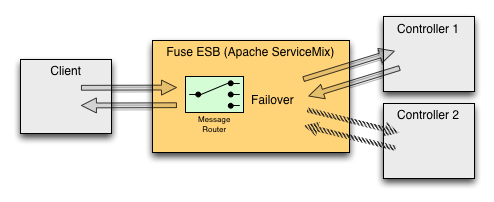
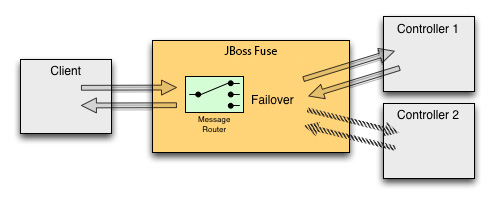
Update readme, pom files and images to JBoss Fuse 6.0.0

Changed region(s): [[0.334, 0.2079, 0.6984, 0.297]]

diff --git a/README.md b/README.md
@@ -19,7 +19,7 @@ kill to demonstrate failover. In practice, additional Fuse ESB containers would 
 
 ### Software Requirements:
 
-* Fuse ESB -- http://fusesource.com/downloads
+* JBoss Fuse 6.0.0
 * Fuse IDE (optional) -- http://fusesource.com/downloads
 * Maven 2.2 or 3.0 -- http://maven.apache.org
 * JDK 1.6
@@ -27,15 +27,15 @@ kill to demonstrate failover. In practice, additional Fuse ESB containers would 
 Installing Fuse
 ---------------
 
-### Download and Install Fuse ESB
+### Download and Install JBoss Fuse
 
-* Download Fuse ESB at http://fusesource.com/products/fuse-esb-enterprise/
+* Download JBoss Fuse at http://www.redhat.com/jbossfuse/download
 * I recommend downloading the .zip or .tar.gz archives rather than the full platform installers.
 * Unzip the archive in a directory without spaces in its path.
 
 ### Download and Install Fuse IDE (optional, not required for this demo)
 
-* Download Fuse IDE at http://fusesource.com/products/fuse-ide/
+* Download Fuse IDE at http://repo.fusesource.com/ide/
 * Unzip the archive in a directory without spaces in its path.
 
 Project Layout
@@ -43,7 +43,7 @@ Project Layout
 
 There are three modules: applications, controllers and router. Here is the layout in the file system:
 
-* FuseESB-RouterDemo
+*JBoss Fuse - RouterDemo
     * client
     * controller
     * router
@@ -54,7 +54,7 @@ the command line here as it is the simplest to describe, and then show Fuse IDE 
 Start Fuse ESB
 --------------
 
-Run the command `bin/fuseesb` in the root directory of Fuse ESB. Here is what the console looks like:
+Run the command `bin/fuse` in the root directory of JBoss Fuse. Here is what the console looks like:
 
 ![Console Image](https://raw.github.com/FuseByExample/camel-example-tcpip-proxy/master/images/console.png "Console Image")
 
@@ -67,17 +67,17 @@ Make sure all projects build successfully.
 Deploy the Router into Fuse ESB
 -------------------------------
 
-In the Fuse ESB terminal session run the command:
+In the JBoss Fuse terminal session run the command:
 
-    FuseESB:karaf@root> features:install camel-mina
-    FuseESB:karaf@root> features:install camel-groovy
-    FuseESB:karaf@root> osgi:install -s mvn:com.fusesource.demo/proxy-router/1.0.0-SNAPSHOT
+    JBossFuse:karaf@root> features:install camel-mina
+    JBossFuse:karaf@root> features:install camel-groovy
+    JBossFuse:karaf@root> osgi:install -s mvn:com.fusesource.demo/proxy-router/1.0.0-SNAPSHOT
 
 You should see output like this, with a Bundle ID generated by the deployment:
 
-    FuseESB:karaf@root> osgi:install -s mvn:com.fusesource.demo/proxy-router/1.0.0-SNAPSHOT
+    JBossFuse:karaf@root> osgi:install -s mvn:com.fusesource.demo/proxy-router/1.0.0-SNAPSHOT
     Bundle ID: 225
-    FuseESB:karaf@root>
+    JBossFuse:karaf@root>
 
 Launch the Controllers
 ----------------------
@@ -102,7 +102,7 @@ to launch the test Client application:
 You should see the Client sending and receiving messages like below. Notice the response has a <controller> element,
 that initially contains 'Controller 1'
 
-    17:44:47 INFO  Apache Camel 2.9.0.fuse-7-061 (CamelContext: camel-1) started in 0.573 seconds
+    17:44:47 INFO  Apache Camel 2.10.0.redhat-60015 (CamelContext: camel-1) started in 0.573 seconds
     17:44:47 INFO  Sending message 1 with data: <data><messageNumber>1</messageNumber><timestamp>17:44:47.348</timestamp></data>
     17:44:47 INFO  Received 1 message: <data><messageNumber>1</messageNumber><timestamp>17:44:47.348</timestamp><controller>Controller 1</controller></data>
     17:44:48 INFO  Sending message 2 with data: <data><messageNumber>2</messageNumber><timestamp>17:44:48.335</timestamp></data>
@@ -144,11 +144,11 @@ configuration of the failover-load balancer)
 
 To inspect the projects using Fuse IDE, launch Fuse IDE and import the three projects as “Existing Maven Projects”:
 
-![Import Maven Projects Image](https://raw.github.com/FuseByExample/camel-example-tcpip-proxy/master/images/import-maven-projects.jpg "Import Maven Projects Image")
+![Import Maven Projects Image](https://raw.github.com/FuseByExample/camel-example-tcpip-proxy/master/images/import-maven-projects.png "Import Maven Projects Image")
 
 Navigate to the router project’s camel-context.xml file to see a visual editor for the integration:
 
-![Camel Context Image](https://raw.github.com/FuseByExample/camel-example-tcpip-proxy/master/images/camel-context.jpg "Camel Context Image")
+![Camel Context Image](https://raw.github.com/FuseByExample/camel-example-tcpip-proxy/master/images/camel-context.png "Camel Context Image")
 
 Switch to the Source tab to see the definition of the integration:
 
@@ -168,6 +168,4 @@ Switch to the Source tab to see the definition of the integration:
 Links to additional documentation
 ---------------------------------
 
-* http://fusesource.com/documentation/
-* http://fusesource.com/docs/esbent/7.0/camel_eip/IntroToEIP-OP.html
-* http://fusesource.com/docs/esbent/7.0/camel_comp_ref/Intro-ComponentsList.html
+* https://access.redhat.com/knowledge/docs/JBoss_Fuse/
